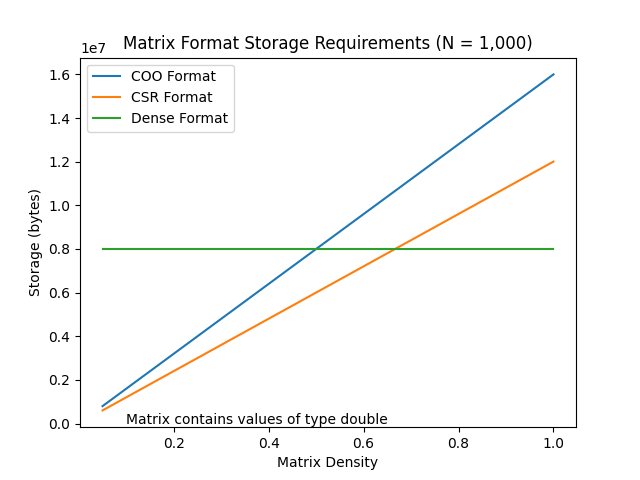
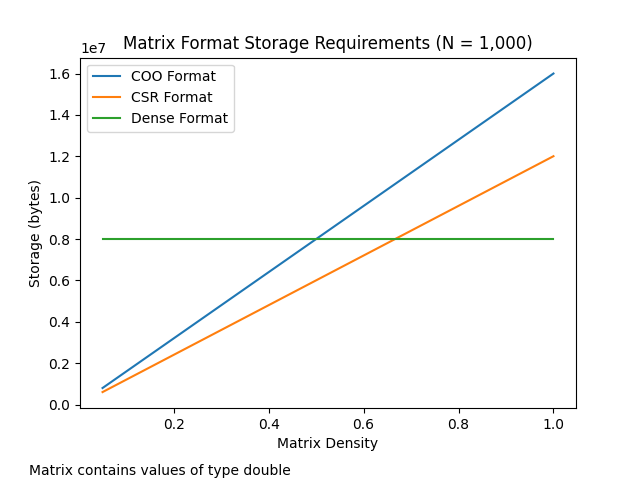
Improved format comparison graphs

diff --git a/storage_analysis/scripts/compare_matrix_formats.py b/storage_analysis/scripts/compare_matrix_formats.py
@@ -11,6 +11,8 @@ DOUBLE_SIZE = 8
 # set this depending on whether the matrix is holding integers, floats, etc.
 MATRIX_ELEMENT_SIZE = DOUBLE_SIZE
 
+val_type = "integer" if MATRIX_ELEMENT_SIZE == INTEGER_SIZE else "double"
+
 dims = [1000, 10000, 100000]
 densities = [0.05, 0.25, 0.5, 0.75, 1.0]
 
@@ -40,5 +42,6 @@ for dim in dims:
     plt.plot(densities, csr_vals, label='CSR Format')
     plt.plot(densities, dense_vals, label='Dense Format')
     plt.legend()
-    plt.annotate('Matrix contains values of type double', xy = (0.1, 0.1))
+    plt.subplots_adjust(bottom=0.15)
+    plt.figtext(0.25, 0.01, 'Matrix contains values of type '+val_type, ha="center", fontsize=10)
 plt.show()
